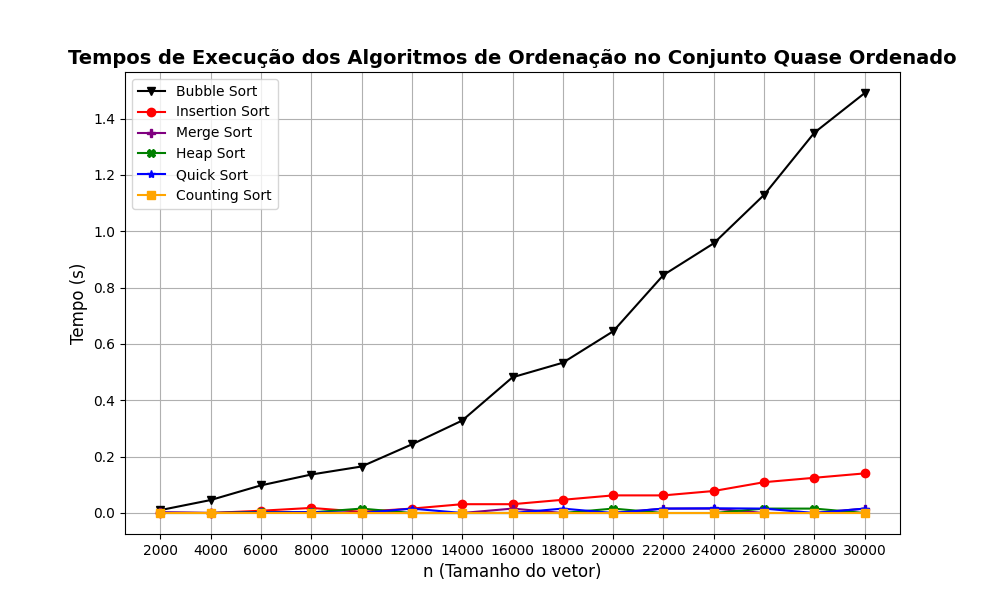
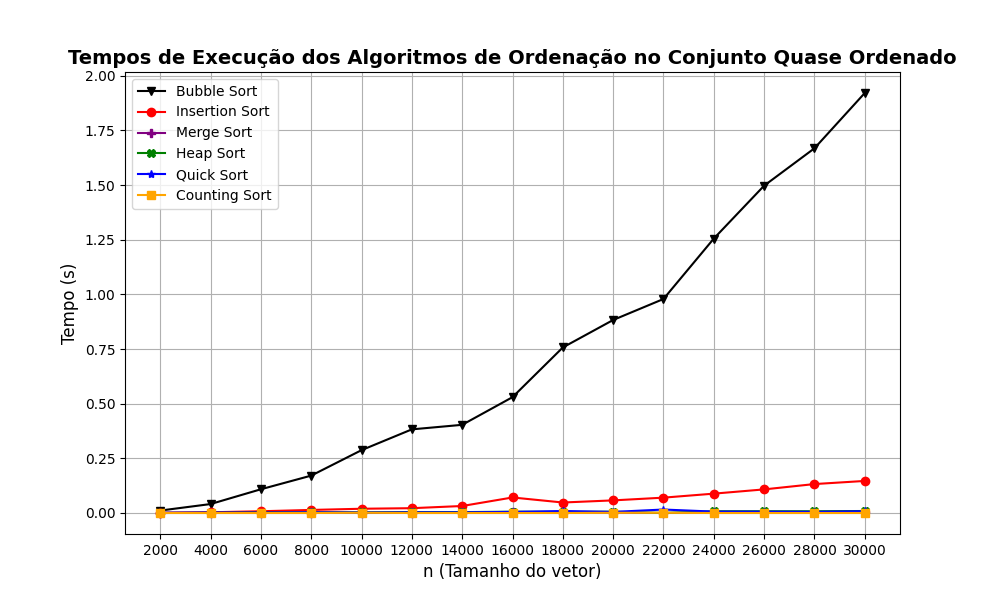
ultimo

diff --git a/program.cpp b/program.cpp
@@ -5,9 +5,9 @@ int main()
 {
     int inc = 2000, fim = 30000, stp = 2000, rpt = 10;
     
-    vetorAleatorio(inc, fim, stp, rpt);
-    vetorReverso(inc, fim, stp);
-    vetorOrdenado(inc, fim, stp);
+    // vetorAleatorio(inc, fim, stp, rpt);
+    // vetorReverso(inc, fim, stp);
+    // vetorOrdenado(inc, fim, stp);
     vetorQuaseOrdenado(inc, fim, stp);
     
 
